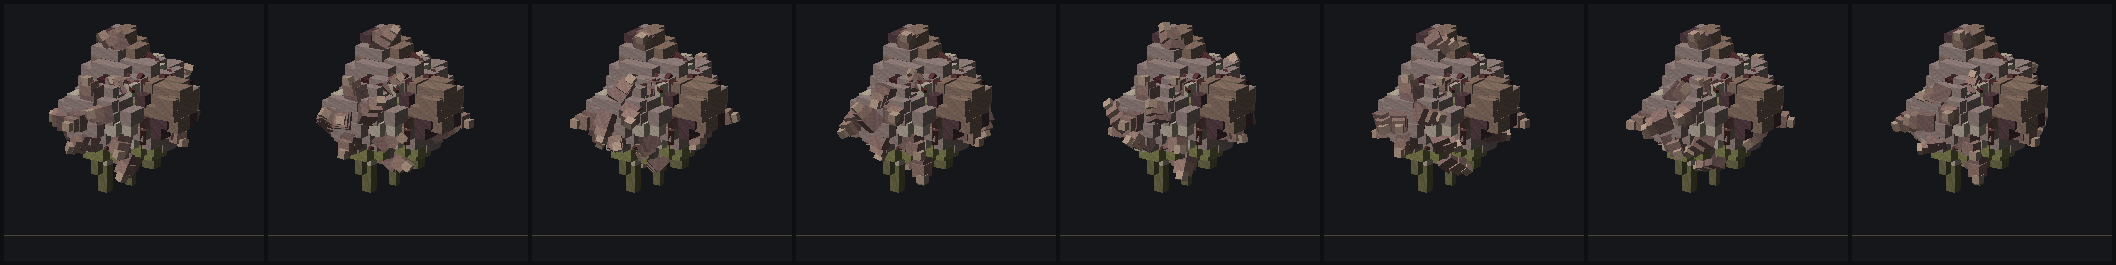
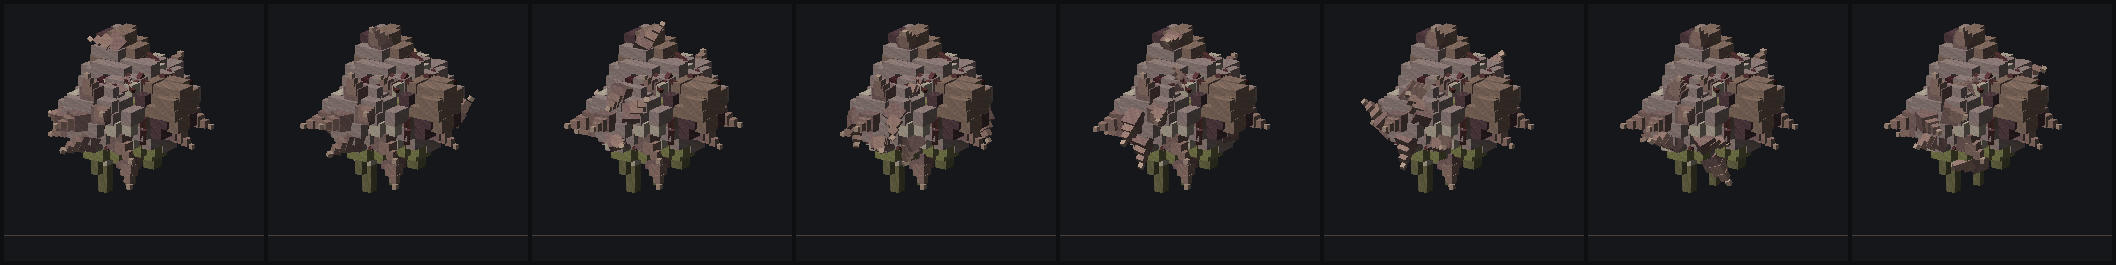
异变缝合兽：碎片与触手动画终轮复查 (round 3/3)
本轮只改两处实质：

- `fission.Fragment.span` 从"体积立方根"改成**前后锚段间距**。蠕动收缩的是两锚之间
  那一段，立方根量的是"这块肉有多大"。两者对紧凑碎片差得很远——core_fore 立方根
  9.16px 而锚段只隔 5.02px，fission 报出来的逃窜速度是碎片动画实际爬速的两倍。
  同一个量在两处给出两个数，就是有一处在骗人。现在两边共用 fragment.geom 的同一个数，
  四块碎片 0.044 / 0.045 / 0.094 / 0.107 格/s。
- `core.bud_tissue` 记账。它是数值积分，而嫁接时长、组织预算、乱抽缩放三处反复问同一
  批槽，不记的话每次 import 白算三四十遍。

复查过的（渲染 + 自检双向）：碎片三视图（创面读得出是撕的、茬是尖的不是鳞片）、
嫁接连拍（背槽那条能看出一节节顶出去）、乱抽正视与 3/4（每帧姿态都不一样，本体不动）、
碎片蠕动世界系连拍（伸缩看得出，位移 2px 一周期确实很慢）。

顺带记一条**不是本轮引入**的红项到 README：check_gait 的 seed=5 采不到能站的兽。在
fad7515a7 上跑同一条检查得到逐字相同的失败，而 locomotion/genome/check_gait 本轮一行
未动——是上一次提交为摊平质量重排 LOBES 挪了质心之后留下的，当时没重跑运动层检查。
没在这轮修：修它要动基因组采样的挑槽策略，不是把 tries 调大盖掉。

<PROMISE>
已 3 轮打磨。

已检查（自检）：
- 碎片几何 10 项：创面占比在 [15%,70%]、腹底贴地、每节分到几何、锚段分得开、挂载点
  落在自己的皮上且不在创面上、单团碎片必须没有癒合痕而多团必须有、组织预算、尺寸、块数
- 碎片动画 9 项：锚段世界位移 0.0000px、净前进 +2.010px 且方向与 forward 同向、
  爬速 0.045 < 母体 0.188、主轴对齐 0.999、循环接缝、乱抽（相对摆幅 1.08–1.18、
  两两互相关 0.499、载体一动不动、芽增 61 = 载体减 61 px³）、逐槽嫁接、死亡、不穿地
- 核心动画 9 项全绿，其中新增：乱抽相对摆幅 1.03–1.15 / 互相关 0.467 / 芽增 452 =
  本体减 452 px³ / 17 条嫁接时长 17 个不同值
- 碎裂层 8 项全绿（动量守恒 2e-17，繁殖闭合改为"掉肢只允许掉在被裂面毁掉的槽上"）

已检查（渲染）：碎片三视图 + 后视、嫁接连拍、乱抽正视/侧视/3-4 + GIF、碎片蠕动与乱抽

仍存局限：
- 碎片横过去只有 6 格体素（VOX=2），单格在这个尺度上仍显得大。真要更细得让体素尺度随
  个体大小变，那是把 VOX 从模块常数改成参数的一层重构，没做
- 乱抽的相位是全篇唯一一处**构造**量而非推导量；"每一拍发不发"那层也是确定性噪声，
  不是从组织力学推的。原因写在 core_anim：17 个槽几何几乎一样，从几何推不出差异
- 芽的摆角上限是常数。按"周围哪边最空"逐槽推的版本已删——实测 17 个槽三档下全部顶到
  上限，核心是凸的，那条路本来就推不出东西
- 碎片蠕动的伸缩沿模型主轴做（骨骼缩放只能沿轴）。默认碎片对齐 0.999 看不出来，斜着
  爬的碎片会有偏差，自检卡在 0.7
[…]

diff --git a/scripts/models/stitched_beast/core.py b/scripts/models/stitched_beast/core.py
@@ -656,6 +656,7 @@ def bud_shape(sock: Socket, growth: float) -> list[tuple[np.ndarray, float, str]
 
 
 _TISSUE_STEP = 0.35        # 芽体积数值积分的采样步长（px）
+_TISSUE_CACHE: dict[tuple[str, float], float] = {}
 
 
 def bud_tissue(sock: Socket, growth: float) -> float:
@@ -666,7 +667,14 @@ def bud_tissue(sock: Socket, growth: float) -> float:
     算会把用料高估到两倍以上。
 
     这个数字有实际后果：芽的组织不是凭空出现的，得有来源。见 `graft_budget`。
+
+    结果按 (槽名, 生长度) 记账：这是数值积分，而嫁接时长、组织预算、乱抽缩放三处都要
+    反复问同一批槽。不记的话每 import 一次 core_anim 就要白算三四十遍。
     """
+    key = (sock.name, round(float(growth), 6))
+    hit = _TISSUE_CACHE.get(key)
+    if hit is not None:
+        return hit
     nodes = bud_shape(sock, growth)
     if not nodes:
         return 0.0
@@ -679,10 +687,12 @@ def bud_tissue(sock: Socket, growth: float) -> float:
         inside |= np.all(np.abs(pts - c) <= r, axis=1)
     pts = pts[inside]
     if not len(pts):
+        _TISSUE_CACHE[key] = 0.0
         return 0.0
     d = (pts[:, None, :] - CORE_CENTER - _LC[None, :, :]) / _LR[None, :, :]
     f = (_LW[None, :] * np.exp(-np.einsum("ijk,ijk->ij", d, d))).sum(axis=1)
-    return float((f < ISO).sum()) * _TISSUE_STEP ** 3
+    _TISSUE_CACHE[key] = float((f < ISO).sum()) * _TISSUE_STEP ** 3
+    return _TISSUE_CACHE[key]
 
 
 def _tangent_basis(n: np.ndarray) -> tuple[np.ndarray, np.ndarray]:

diff --git a/scripts/models/stitched_beast/fission.py b/scripts/models/stitched_beast/fission.py
@@ -73,8 +73,19 @@ class Fragment:
 
     @property
     def span(self) -> float:
-        """特征体长：体积的立方根。蠕动速度正比于它（见 core_anim.crawl_speed）。"""
-        return float((self.mass * C.VOX ** 3) ** (1.0 / 3.0))
+        """特征体长 = **前后锚段的间距**。蠕动速度正比于它（见 core_anim.crawl_speed）。
+
+        本来图省事取体积的立方根，那是错的：蠕动收缩的是两个锚段之间那一段，立方根量的
+        是"这块肉有多大"，不是"能收缩多长"。两者对紧凑的碎片差得很远——`core_fore` 立方根
+        9.16px 而锚段只隔 5.02px，报出来的逃窜速度会是动画实际爬速的两倍。**同一个量在
+        两处给出两个数**，那就是有一处在骗人。
+
+        锚段间距由 `fragment.geom` 按碎片自己的骨（或重新分节）算，和 `fragment_anim`
+        用的是同一个数。
+        """
+        import fragment as FR
+
+        return FR.geom(self.lobes).span
 
     def genome(self, parent: GN.Genome) -> GN.Genome:
         """碎片自己的基因组 = 亲代基因里落在它带走的挂载点上的那些部件。

diff --git a/scripts/models/stitched_beast/README.md b/scripts/models/stitched_beast/README.md
@@ -269,6 +269,15 @@ python3 scripts/models/stitched_beast/render_core_anim.py --shard --only shard_c
 **碎片**（健康分裂分出的 `core_fore`）：65 块 / 11 骨 / 7 槽，本体 0.89 × 0.78 × 0.65 格，
 创面占表层 45%，癒合痕 0 段，齐长 growth 0.305。动画 12 条。
 
+## 已知红项（未修，不是本轮引入）
+
+`check_gait.py` 的 `seed=5` 采不到能站的兽（60 次重采样全部失败：11 次"全脚着地都包不住
+质心"、10 次支撑脚只剩 2 只）。**在 `fad7515a7`（本轮改动之前）上跑同一条检查得到逐字
+相同的失败**，而 `locomotion.py` / `genome.py` / `check_gait.py` 本轮一行未动——所以这是
+上一次提交（碎裂层为了摊平质量重排 `LOBES`）把核心质心挪了之后留下的，当时没有重跑
+运动层的检查。修它要动的是基因组采样：目前挑槽是均匀随机的，不管挑出来的脚围不围得住
+质心；正解多半是让采样偏向"能包住质心的槽组合"，而不是把 `tries` 调大把问题盖掉。
+
 ## 已知局限
 
 - 顶视轮廓仍偏矩形——体素网格轴对齐的固有代价，靠抖动和跨度上限只能缓解不能消除。
